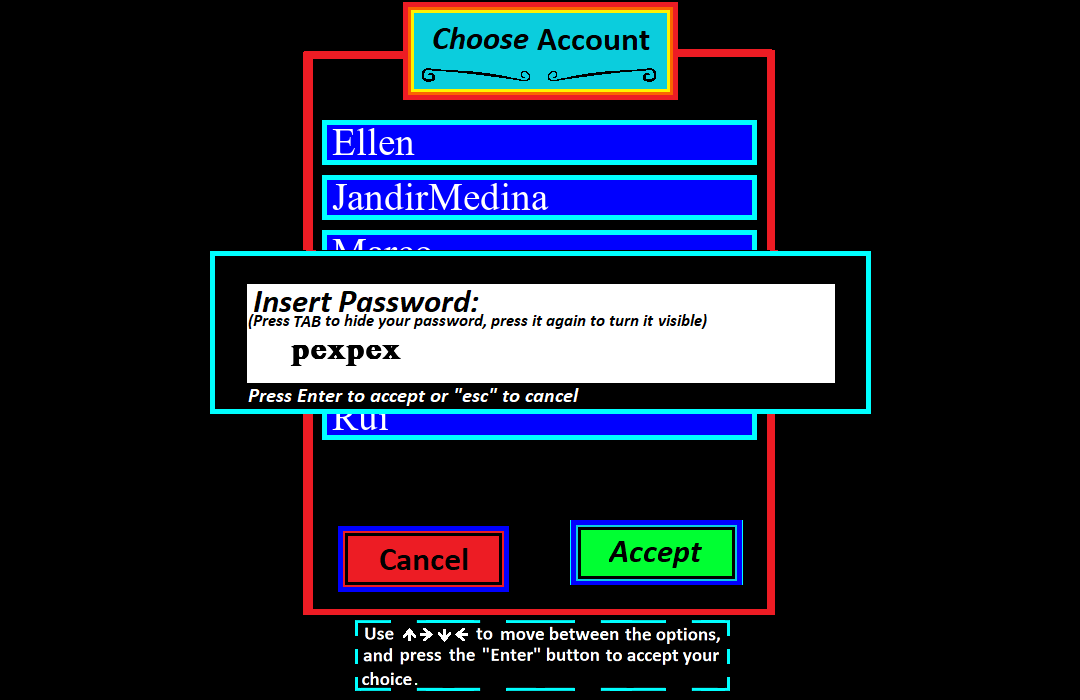
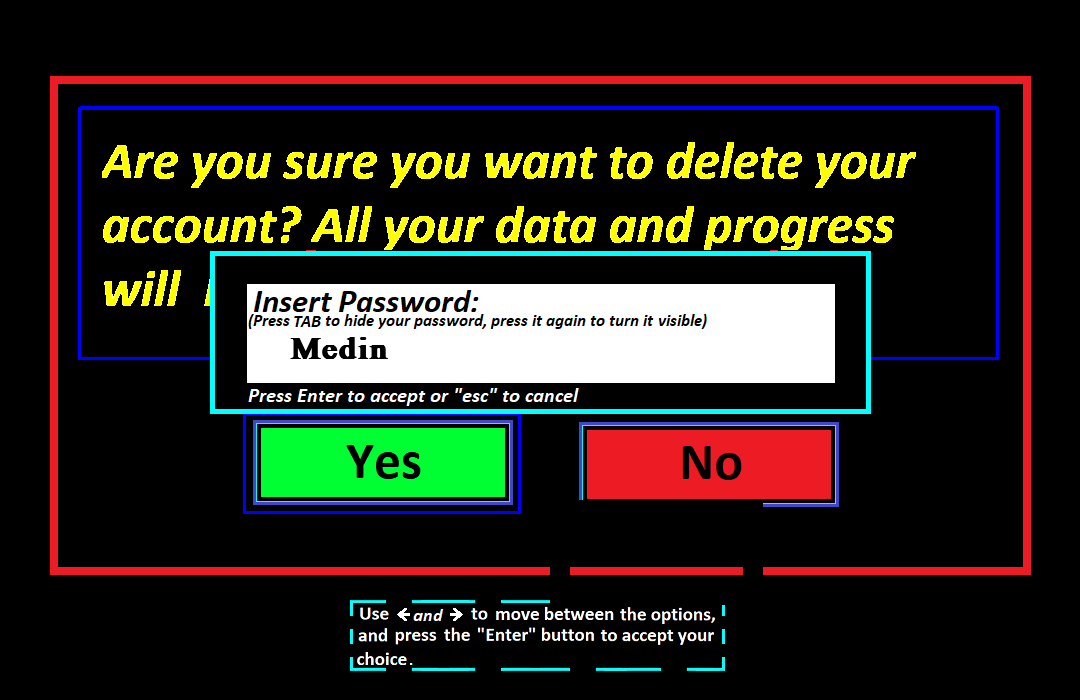
implemented and added function to delete user account

diff --git a/classes_menu.py b/classes_menu.py
@@ -465,7 +465,6 @@ class Choose_Account:
         self.buttons[self.previous_button].image = pygame.image.load("images/menu/buttons/6/2.png")
         self.buttons[self.codigo_ativo_y].image = pygame.image.load("images/menu/buttons/6/1.png")
 
-
     def refresh(self):
         coordenadas = {0: (325, 520), 1: (558, 520)}
         coo = coordenadas[self.codigo_ativo_x]
@@ -479,13 +478,14 @@ class Choose_Account:
 
 
 class Enter_Password:
-    def __init__(self, screen):
+    def __init__(self, screen, change=False):
         self.screen = screen
         self.image = pygame.image.load("images/menu/interfaces/Main/insert_password.png")
         self.user = None
         self.password_list = []
         self.create_user()
         self.hide = False
+        self.change = change
 
     def create_user(self):
         self.user = User()
@@ -500,10 +500,15 @@ class Enter_Password:
         self.screen.blit(pygame.image.load("images/menu/interfaces/provisory/provisory.png"), (0, 0))
 
     def show_succes_message(self) -> None:
-        self.screen.blit(pygame.image.load("images/menu/messages/success2.png"), (230, 200))
-        f.write_name(self.screen, self.user.name)
+        if self.change:
+            self.screen.blit(pygame.image.load("images/menu/messages/success3.png"), (230, 200))
+            time = 3
+        else:
+            self.screen.blit(pygame.image.load("images/menu/messages/success2.png"), (230, 200))
+            f.write_name(self.screen, self.user.name)
+            time = 1
         pygame.display.update()
-        f.wait(1)
+        f.wait(time)
 
     def verify_password(self):
         return "".join(self.password_list) == self.user.password
@@ -529,13 +534,17 @@ class Enter_Password:
         if event.key == pygame.K_BACKSPACE:
             self.password_list = self.password_list[:-1]
         elif keys[pygame.K_ESCAPE]:
+            if self.change:
+                return "manage"
             return "choose"
         elif keys[pygame.K_TAB]:
             self.hide = not self.hide
         elif keys[pygame.K_KP_ENTER] or keys[pygame.K_RETURN]:
-            self.password = "".join(self.password_list)
+            # self.password = "".join(self.password_list)
             if self.verify_password():
                 self.show_succes_message()
+                if self.change:
+                    return "main_menu"
                 return "continue"
             else:
                 self.show_error_message()
@@ -615,6 +624,7 @@ class Management:
         self.coord_efeito = (self.list[self.codigo_ativo].x-12, self.list[self.codigo_ativo].y-12)
 
     def refresh(self):
+        f.clean_background(self.screen)
         self.screen.blit(self.image_nome, ((1080-470)//2, 0))
         self.screen.blit(pygame.image.load("images/menu/interfaces/navigation/navigation.png"), (355, 620))
         coo = (20, 490)

diff --git a/funcoes.py b/funcoes.py
@@ -1,6 +1,7 @@
 import time
 import pygame
 import os
+import shutil
 # import classes_menu as cm
 # import random
 import math
@@ -90,8 +91,10 @@ def refresh_game(screen, background, entidades):
 def criar_pasta(nome_utilizador):
     os.mkdir(diretorio_raiz+nome_utilizador)
 
+
 def eliminar_pasta(nome_utilizador):
     pass
+
 
 def lista_utilizadores():
     utilizadores = [x[0].split("\\") for x in os.walk("saves")][1:]
@@ -202,9 +205,20 @@ def writeble_parts_number(number):
     return [image_text, coordenadas]
 
 
+def clean_background(screen):
+    background = pygame.Surface(screen.get_size())
+    background = background.convert()
+    background.fill((0, 0, 0))
+    screen.blit(background, (0, 0))
+
+
 def erase_active_user_data():
     ficheiro = open("saves/active_user.txt", "w")
     ficheiro.close()
+
+
+def delete_user_account(user_name):
+    shutil.rmtree(f'saves/{user_name}')
 
 
 def get_users_images(codigo):

diff --git a/main.py b/main.py
@@ -10,7 +10,7 @@ efeitos = {"exit1": lf.exit_game, "main_menu": lf.main_menu, "continue": lf.game
            "exit2": lf.exit_game_menu, "tutorial": lf.tutorial, "exit3": lf.game_menu, "story": lf.display_story,
            "mai": lf.game_ai, "mpart": lf.game_parts, "save": lf.tutorial_s, "level_up": lf.tutorial_lu,
            "enemy": lf.tutorial_e, "controls": lf.tutorial_c, "choose": lf.choose_user,
-           "enter_password": lf.enter_password, "manage": lf.manage_account
+           "enter_password": lf.enter_password, "manage": lf.manage_account, "elmnt_account": lf.delete_account
            }
 
 ef = "main_menu"

diff --git a/link_functions.py b/link_functions.py
@@ -122,6 +122,18 @@ def manage_account(screen):
     return m.display_menu()
 
 
+def delete_account(screen):
+    if cm.Exit("images/menu/exit/delete_account.png", screen).display_menu():
+        file = open("saves/active_user.txt", "r")
+        line = file.readline().split(" ")
+        verification_password = cm.Enter_Password(screen, True).display_menu()
+        file.close()
+        if verification_password == "main_menu":
+            f.delete_user_account(line[0])
+        return verification_password
+    return "manage"
+
+
 def tutorial_s(screen):
     pass
 
